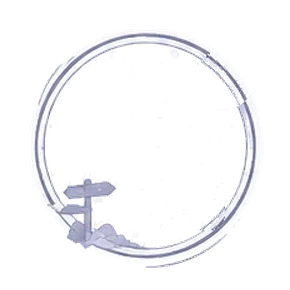
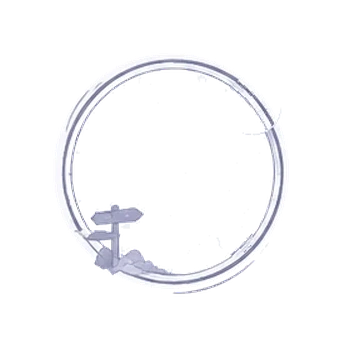
EPIC / LEGENDARY / MYTHIC / EXALTED をイラスト素材で追加(各18種、合計126種)
- Epic(紫)・Legendary(金)・Mythic(深紅と紫)・Exalted(白と紫と金): リング・背景カード・名札 各6種
- 大きな飾りのあるリングが切れないよう、リング画像の余白を広げた(表示の大きさを170%に)。COMMON〜RAREのリングも作り直し
- 素材の追加で、ガチャの対象が7段階になった(確率は、元の表に比例して自動で調整)

Claude-Session: https://claude.ai/code/session_01FXrqvWfRt7Cfui1Bab3KtG

Changed region(s): [[0.0931, 0.0931, 0.9, 0.931]]

diff --git a/gacha-items.js b/gacha-items.js
@@ -9,10 +9,10 @@ export const RATES_PCT = {
 };
 export const RARITY_LABEL = Object.fromEntries(RARITIES.map(r => [r, r.toUpperCase()]));
 // 表示用の色(CSS の --rc にも同じ色)
-export const RARITY_COLOR = { common: '#cfd3e8', uncommon: '#6ee7a0', rare: '#6aa8ff', epic: '#b794ff', legendary: '#ff9a5c', mythic: '#ff5c6c', exalted: '#ff7ab8', divine: '#ffe27a', celestial: '#7defff', transcendent: '#5cf0c6', eternal: '#8a8cff', singularity: '#e55cff', primordial: '#ffffff' };
+export const RARITY_COLOR = { common: '#cfd3e8', uncommon: '#6ee7a0', rare: '#6aa8ff', epic: '#b794ff', legendary: '#f5c24c', mythic: '#ff5c8a', exalted: '#d9ccff', divine: '#ffe27a', celestial: '#7defff', transcendent: '#5cf0c6', eternal: '#8a8cff', singularity: '#e55cff', primordial: '#ffffff' };
 export const ID_PATTERN = /^[a-z0-9-]{1,32}$/;
 
-// イラスト素材(img/gacha/)。題材ごとに、リング・背景カード・名札の3つ(COMMON / UNCOMMON / RARE)
+// イラスト素材(img/gacha/)。題材ごとに、リング・背景カード・名札の3つ(COMMON 〜 EXALTED)
 const TITLES_COMMON = [
   ['newcomer', ['Newcomer', 'ニューカマー', '新人']],
   ['wanderer', ['Wanderer', 'ワンダラー', '流浪者']],
@@ -29,6 +29,38 @@ const TITLES_UNCOMMON = [
   ['rising-star', ['Rising Star', 'ライジングスター', '新星']],
   ['fortune-seeker', ['Fortune Seeker', 'フォーチュンシーカー', '寻运者']],
 ];
+const TITLES_EPIC = [
+  ['master-of-illusions', ['Master of Illusions', 'マスター・オブ・イリュージョン', '幻象大师']],
+  ['the-fallen-knight', ['The Fallen Knight', 'ザ・フォールン・ナイト', '堕落骑士']],
+  ['lord-of-shadows', ['Lord of Shadows', 'ロード・オブ・シャドウズ', '暗影之主']],
+  ['keeper-of-secrets', ['Keeper of Secrets', 'キーパー・オブ・シークレッツ', '秘密守护者']],
+  ['the-unbroken', ['The Unbroken', 'ジ・アンブロークン', '不屈者']],
+  ['harbinger-of-dawn', ['Harbinger of Dawn', 'ハービンジャー・オブ・ドーン', '黎明先驱']],
+];
+const TITLES_LEGENDARY = [
+  ['the-uncrowned-king', ['The Uncrowned King', '戴冠なき王', '无冕之王']],
+  ['dragon-sovereign', ['Dragon Sovereign', 'ドラゴン・ソブリン', '龙之君主']],
+  ['the-conqueror', ['The Conqueror', 'ザ・コンカラー', '征服者']],
+  ['the-chosen-one', ['The Chosen One', '選ばれし者', '天选之人']],
+  ['emperor-of-ashes', ['Emperor of Ashes', '灰の皇帝', '灰烬皇帝']],
+  ['the-last-guardian', ['The Last Guardian', '最後の守護者', '最后的守护者']],
+];
+const TITLES_MYTHIC = [
+  ['the-immortal', ['The Immortal', '不死なる者', '不朽者']],
+  ['the-godslayer', ['The Godslayer', '神殺し', '弑神者']],
+  ['herald-of-chaos', ['Herald of Chaos', 'ヘラルド・オブ・カオス', '混沌使者']],
+  ['heir-of-the-titans', ['Heir of the Titans', '巨人の継承者', '泰坦后裔']],
+  ['the-abyssal-monarch', ['The Abyssal Monarch', '深淵の君主', '深渊君主']],
+  ['oracle-of-destiny', ['Oracle of Destiny', '運命の神託', '命运神谕']],
+];
+const TITLES_EXALTED = [
+  ['the-ascended', ['The Ascended', '昇天者', '飞升者']],
+  ['the-enlightened', ['The Enlightened', '悟りを得た者', '觉悟者']],
+  ['the-supreme-one', ['The Supreme One', '至高の存在', '至高者']],
+  ['the-unrivaled', ['The Unrivaled', '並ぶ者なき者', '无双者']],
+  ['sovereign-of-order', ['Sovereign of Order', '秩序の君主', '秩序之主']],
+  ['the-perfect-being', ['The Perfect Being', '完全なる存在', '完美存在']],
+];
 const TITLES = [
   ['shadow-walker', ['Shadow Walker', 'シャドウウォーカー', '暗影行者']],
   ['flame-keeper', ['Flame Keeper', 'フレイムキーパー', '炎之守护者']],
@@ -44,6 +76,7 @@ const setOf = (rarity, titles) => titles.flatMap(([slug, names]) => [
   { id: `p-${slug}`, type: 'plate', rarity, img: `${IMG}plate-${slug}.webp`, names },
 ]);
 const COMMON_SET = setOf('common', TITLES_COMMON), UNCOMMON_SET = setOf('uncommon', TITLES_UNCOMMON), RARE_SET = setOf('rare', TITLES);
+const EPIC_SET = setOf('epic', TITLES_EPIC), LEGENDARY_SET = setOf('legendary', TITLES_LEGENDARY), MYTHIC_SET = setOf('mythic', TITLES_MYTHIC), EXALTED_SET = setOf('exalted', TITLES_EXALTED);
 export const ITEMS = [
   // ---- COMMON(イラスト・淡い色): リング・背景カード・名札 ----
   ...COMMON_SET,
@@ -51,6 +84,8 @@ export const ITEMS = [
   ...UNCOMMON_SET,
   // ---- RARE(イラスト): アイコンのリング / 背景カード / 名札(名前の横)。同じ6つの題材で、セットになっている ----
   ...RARE_SET,
+  // ---- EPIC(紫) / LEGENDARY(金) / MYTHIC(深紅と紫) / EXALTED(白と紫と金) ----
+  ...EPIC_SET, ...LEGENDARY_SET, ...MYTHIC_SET, ...EXALTED_SET,
 ];
 export const BY_ID = Object.fromEntries(ITEMS.map(i => [i.id, i]));
 export const itemName = (item, lang) => item.names[{ en: 0, ja: 1, zh: 2 }[lang] ?? 0];

diff --git a/theme.js b/theme.js
@@ -1,5 +1,5 @@
 // 表示スタイル(標準 / ネオン)の切り替え。ネオンはWebGPUの3D背景(非対応のブラウザでは、CSSの簡易ネオン)。
-import './cs-progress.js?v=109';
+import './cs-progress.js?v=111';
 const KEY = 'theme';
 const root = document.documentElement;
 const buttons = [...document.querySelectorAll('.st-theme')];
@@ -12,7 +12,7 @@ async function apply() {
   buttons.forEach(b => { const on = b.dataset.theme === getTheme(); b.classList.toggle('is-on', on); b.setAttribute('aria-pressed', String(on)); });
   if (!neon && /^(cs|physics|eio|mock|afk)$/.test(document.body.dataset.view)) window.appSetView('home');
   if (neon && document.body.dataset.view === 'notes') window.appSetView('home');
-  const gpu = await import('./neon-bg.js?v=109');
+  const gpu = await import('./neon-bg.js?v=111');
   if (!neon) { gpu.stopNeon(); root.classList.remove('neon-gpu'); if (note) note.hidden = true; return; }
   const ok = await gpu.startNeon(document.querySelector('.bg'));
   root.classList.toggle('neon-gpu', ok);
@@ -31,7 +31,7 @@ if (getTheme() === 'neon') apply(); else buttons.forEach(b => { const on = b.dat
 // CS / Physics 画面(ネオンのときだけ): 開いている間だけ、WebGPUの背景を動かす
 async function syncGpuViews(view) {
   if (getTheme() !== 'neon') return;
-  const [cs, ph, io, mk, ak] = await Promise.all([import('./cs.js?v=109'), import('./physics.js?v=109'), import('./eio.js?v=109'), import('./mock.js?v=109'), import('./afk.js?v=109')]);
+  const [cs, ph, io, mk, ak] = await Promise.all([import('./cs.js?v=111'), import('./physics.js?v=111'), import('./eio.js?v=111'), import('./mock.js?v=111'), import('./afk.js?v=111')]);
   if (view === 'cs') cs.cs.start(); else cs.cs.stop();
   if (view === 'physics') ph.physics.start(); else ph.physics.stop();
   if (view === 'eio') io.eio.start(); else io.eio.stop();

diff --git a/home-auth.js b/home-auth.js
@@ -1,21 +1,21 @@
 // ホーム画面はログイン済みのユーザーだけが見られる。未ログインならログイン画面へ戻す。
-import { onUser, logOut } from './auth.js?v=109';
-import { t, getLang, setLang } from './i18n.js?v=109';
-import { mountFriends } from './friends-ui.js?v=109';
-import { mountProfile } from './profile.js?v=109';
-import { mountTimer } from './timer.js?v=109';
-import { mountPomodoro } from './pomodoro.js?v=109';
-import { startLogs } from './logs-store.js?v=109';
-import { mountRecent } from './recent.js?v=109';
-import { mountManual } from './manual.js?v=109';
-import { mountNotices } from './notices.js?v=109';
-import { mountCompare } from './compare.js?v=109';
-import './theme.js?v=109';
-import { mountAfk } from './afk.js?v=109';
-import { mountMock } from './mock.js?v=109';
-import { mountEio } from './eio.js?v=109';
-import { mountNotes } from './notes.js?v=109';
-import { mountBgVideo } from './bgvideo.js?v=109';
+import { onUser, logOut } from './auth.js?v=111';
+import { t, getLang, setLang } from './i18n.js?v=111';
+import { mountFriends } from './friends-ui.js?v=111';
+import { mountProfile } from './profile.js?v=111';
+import { mountTimer } from './timer.js?v=111';
+import { mountPomodoro } from './pomodoro.js?v=111';
+import { startLogs } from './logs-store.js?v=111';
+import { mountRecent } from './recent.js?v=111';
+import { mountManual } from './manual.js?v=111';
+import { mountNotices } from './notices.js?v=111';
+import { mountCompare } from './compare.js?v=111';
+import './theme.js?v=111';
+import { mountAfk } from './afk.js?v=111';
+import { mountMock } from './mock.js?v=111';
+import { mountEio } from './eio.js?v=111';
+import { mountNotes } from './notes.js?v=111';
+import { mountBgVideo } from './bgvideo.js?v=111';
 
 let social;
 onUser(async user => {

diff --git a/afk.css b/afk.css
@@ -109,7 +109,7 @@ body[data-view="afk"] #afk-view { display: block; animation: page-in .5s ease bo
 
 /* ---------- イラスト素材(RARE): リング・背景カード・名札 ---------- */
 .gx-ringimg::before { display: none; }
-.gx-ring { position: absolute; width: 145%; height: 145%; left: -22.5%; top: -22.5%; max-width: none; z-index: 3; pointer-events: none; user-select: none; filter: drop-shadow(0 0 4px rgba(120, 140, 255, .55)); animation: gx-ringglow 3.4s ease-in-out infinite; }
+.gx-ring { position: absolute; width: 170%; height: 170%; left: -35%; top: -35%; max-width: none; z-index: 3; pointer-events: none; user-select: none; filter: drop-shadow(0 0 4px rgba(120, 140, 255, .55)); animation: gx-ringglow 3.4s ease-in-out infinite; }
 @keyframes gx-ringglow { 50% { filter: drop-shadow(0 0 9px rgba(150, 170, 255, .95)); } }
 .gx-sample .gx-ring { z-index: 1; }
 html .gx-deco.gx-img { --ovg: linear-gradient(90deg, rgba(255, 255, 255, .66), rgba(255, 255, 255, .4) 42%, rgba(255, 255, 255, .55)); background: var(--ovg), var(--g); }
@@ -132,9 +132,9 @@ html[data-theme="neon"] .gx-deco.gx-img .fo-desc, html[data-theme="neon"] .gx-de
 [data-r="uncommon"] { --rc: #6ee7a0; }
 [data-r="rare"] { --rc: #6aa8ff; }
 [data-r="epic"] { --rc: #b794ff; }
-[data-r="legendary"] { --rc: #ff9a5c; }
-[data-r="mythic"] { --rc: #ff5c6c; }
-[data-r="exalted"] { --rc: #ff7ab8; }
+[data-r="legendary"] { --rc: #f5c24c; }
+[data-r="mythic"] { --rc: #ff5c8a; }
+[data-r="exalted"] { --rc: #d9ccff; }
 [data-r="divine"] { --rc: #ffe27a; }
 [data-r="celestial"] { --rc: #7defff; }
 [data-r="transcendent"] { --rc: #5cf0c6; }

diff --git a/afk.js b/afk.js
@@ -1,13 +1,13 @@
 // AFK(ネオンのときだけ): タイマーを動かしている間、一定の間隔(初期設定10秒)で、自動でガチャを引く。
 // 景品は、プロフィールで使えるアイコンと、プロフィールの背景の飾り。図鑑で、どれを何個持っているか見られて、そこから使うものを選べる。
 // 回数や持ち物は、このブラウザに、アカウントごとに保存する。使うものに選んだ景品は、Firestore(プロフィール)に入るので、他の人にも見える。
-import { createGpuView } from './gpu-view.js?v=109';
-import { WGSL } from './physics-bg.js?v=109';
-import { firestore } from './auth.js?v=109';
-import { onState } from './friends-ui.js?v=109';
-import { unlockAudio, beep } from './sound.js?v=109';
-import { t, getLang } from './i18n.js?v=109';
-import { ITEMS, BY_ID, RATES_PCT, RARITIES, RARITY_LABEL, RARITY_COLOR, availableRarities, itemName, pull, frameSample, applyDeco, plateImg } from './gacha-items.js?v=109';
+import { createGpuView } from './gpu-view.js?v=111';
+import { WGSL } from './physics-bg.js?v=111';
+import { firestore } from './auth.js?v=111';
+import { onState } from './friends-ui.js?v=111';
+import { unlockAudio, beep } from './sound.js?v=111';
+import { t, getLang } from './i18n.js?v=111';
+import { ITEMS, BY_ID, RATES_PCT, RARITIES, RARITY_LABEL, RARITY_COLOR, availableRarities, itemName, pull, frameSample, applyDeco, plateImg } from './gacha-items.js?v=111';
 
 const host = document.getElementById('afk-view');
 const stage = document.getElementById('afk-stage');

diff --git a/home.html b/home.html
@@ -7,13 +7,13 @@
 <script>try{if(localStorage.theme==="neon")document.documentElement.dataset.theme="neon"}catch(e){}document.documentElement.classList.add("auth-pending", "i18n-pending"); setTimeout(function () { document.documentElement.classList.remove("i18n-pending"); }, 3000);</script>
 <link rel="preconnect" href="https://fonts.googleapis.com"><link rel="preconnect" href="https://fonts.gstatic.com" crossorigin>
 <link rel="stylesheet" href="https://fonts.googleapis.com/css2?family=Cormorant+Garamond:ital,wght@0,400;0,500;0,600;1,400;1,500;1,600&display=swap">
-<link rel="stylesheet" href="style.css?v=109">
-<link rel="stylesheet" href="cs.css?v=109">
-<link rel="stylesheet" href="ph.css?v=109">
-<link rel="stylesheet" href="eio.css?v=109">
-<link rel="stylesheet" href="mock.css?v=109">
-<link rel="stylesheet" href="afk.css?v=109">
-<link rel="stylesheet" href="notes.css?v=109">
+<link rel="stylesheet" href="style.css?v=111">
+<link rel="stylesheet" href="cs.css?v=111">
+<link rel="stylesheet" href="ph.css?v=111">
+<link rel="stylesheet" href="eio.css?v=111">
+<link rel="stylesheet" href="mock.css?v=111">
+<link rel="stylesheet" href="afk.css?v=111">
+<link rel="stylesheet" href="notes.css?v=111">
 </head>
 <body data-view="home">
 
@@ -461,8 +461,8 @@
   </form>
 </div>
 
-<script src="script.js?v=109"></script>
-<script src="logpage.js?v=109"></script>
-<script type="module" src="home-auth.js?v=109"></script>
+<script src="script.js?v=111"></script>
+<script src="logpage.js?v=111"></script>
+<script type="module" src="home-auth.js?v=111"></script>
 </body>
 </html>

diff --git a/profile.js b/profile.js
@@ -1,13 +1,13 @@
 // プロフィール画面: 自分の情報、学習の集計、日ごとの学習時間のグラフ、Log history
-import { firestore } from './auth.js?v=109';
-import { formatCode, socialMessage } from './social.js?v=109';
-import { t, logMeta } from './i18n.js?v=109';
-import { errorMessage } from './auth.js?v=109';
-import { loadImage } from './avatar-image.js?v=109';
-import { openCropper } from './crop.js?v=109';
-import { onState, editMyProfile, makeAvatar } from './friends-ui.js?v=109';
-import { BY_ID, applyDeco, applyPlate } from './gacha-items.js?v=109';
-import { computeStats, dailySeries, niceScale, relativeTime, sampleLogs } from './stats.js?v=109';
+import { firestore } from './auth.js?v=111';
+import { formatCode, socialMessage } from './social.js?v=111';
+import { t, logMeta } from './i18n.js?v=111';
+import { errorMessage } from './auth.js?v=111';
+import { loadImage } from './avatar-image.js?v=111';
+import { openCropper } from './crop.js?v=111';
+import { onState, editMyProfile, makeAvatar } from './friends-ui.js?v=111';
+import { BY_ID, applyDeco, applyPlate } from './gacha-items.js?v=111';
+import { computeStats, dailySeries, niceScale, relativeTime, sampleLogs } from './stats.js?v=111';
 
 const $ = id => document.getElementById(id);
 const el = (tag, className, text) => {

diff --git a/friends-ui.js b/friends-ui.js
@@ -1,8 +1,8 @@
 // フレンド機能の画面: 右サイドバーの一覧と、ページの上に重ねて表示するフレンドUI
 //   左のレール: 人のマーク = フレンド一覧 / 人+のマーク = フレンド申請
-import { startSocial, formatCode, socialMessage, LIMITS } from './social.js?v=109';
-import { t } from './i18n.js?v=109';
-import { errorMessage } from './auth.js?v=109';
+import { startSocial, formatCode, socialMessage, LIMITS } from './social.js?v=111';
+import { t } from './i18n.js?v=111';
+import { errorMessage } from './auth.js?v=111';
 
 const $ = id => document.getElementById(id);
 const LABELS = { online: 'Online', busy: 'Busy', offline: 'Offline' };
@@ -47,8 +47,8 @@ function textButton(label, className, onClick) {
   b.addEventListener('click', onClick);
   return b;
 }
-import { PHOTO_PATTERN } from './avatar-image.js?v=109';
-import { BY_ID, applyFrame, applyDeco, applyPlate } from './gacha-items.js?v=109';
+import { PHOTO_PATTERN } from './avatar-image.js?v=111';
+import { BY_ID, applyFrame, applyDeco, applyPlate } from './gacha-items.js?v=111';
 function avatar(id, name, status, photo, icon) {
   let h = 0;
   for (const ch of id) h = (h * 31 + ch.charCodeAt(0)) % 360;

diff --git a/cs.js b/cs.js
@@ -1,10 +1,10 @@
 // CS(ネオンのときだけ): 「IBDP Computer Science HL」の学習サイトの画面一式。背景はWebGPU(白黒のゴシックの大聖堂)で、ずっと動いている。
 // 画面: home / topics / practice / pa(Practice の一覧。A1〜A4) / lesson(A1〜A4 の学習ページ) / case(Case Study)
-import { createGpuView } from './gpu-view.js?v=109';
-import { WGSL } from './cs-bg.js?v=109';
-import { GROUPS, TERMS, FIGS } from './casestudy.js?v=109';
-import { isDone, toggleDone, countDone } from './cs-progress.js?v=109';
-import { mountQuiz, quizScore, quizTotal, QUIZ_CODES } from './quiz.js?v=109';
+import { createGpuView } from './gpu-view.js?v=111';
+import { WGSL } from './cs-bg.js?v=111';
+import { GROUPS, TERMS, FIGS } from './casestudy.js?v=111';
+import { isDone, toggleDone, countDone } from './cs-progress.js?v=111';
+import { mountQuiz, quizScore, quizTotal, QUIZ_CODES } from './quiz.js?v=111';
 
 const host = document.getElementById('cs-view');
 const stage = document.getElementById('cs-stage');

diff --git a/physics.js b/physics.js
@@ -1,10 +1,10 @@
 // Physics(ネオンのときだけ): IBDP Physics HL の最初のページ。背景はWebGPU(白黒のゴシックの大聖堂+浮かぶ惑星)で、ずっと動いている。
-import { createGpuView } from './gpu-view.js?v=109';
-import { WGSL } from './physics-bg.js?v=109';
-import { TOPICS as TOPICS5, FIGS as FIGS5 } from './physics-a5.js?v=109';
-import { TOPICS1, FIGS1 } from './physics-a1.js?v=109';
-import { TOPICS2, FIGS2 } from './physics-a2.js?v=109';
-import { TOPICS3, FIGS3 } from './physics-a3.js?v=109';
+import { createGpuView } from './gpu-view.js?v=111';
+import { WGSL } from './physics-bg.js?v=111';
+import { TOPICS as TOPICS5, FIGS as FIGS5 } from './physics-a5.js?v=111';
+import { TOPICS1, FIGS1 } from './physics-a1.js?v=111';
+import { TOPICS2, FIGS2 } from './physics-a2.js?v=111';
+import { TOPICS3, FIGS3 } from './physics-a3.js?v=111';
 const TOPICS = { ...TOPICS1, ...TOPICS2, ...TOPICS3, ...TOPICS5 };
 const FIGS = { ...FIGS5, ...FIGS1, ...FIGS2, ...FIGS3 };
 

diff --git a/style.css b/style.css
@@ -808,7 +808,7 @@ html[data-theme="neon"] .lib-bg {
   display: block; position: absolute; inset: 0;
   background:
     radial-gradient(60% 50% at 50% 0%, rgba(255, 40, 180, .18), transparent 70%),
-    url("library-far.svg?v=109") calc(var(--sx, 0px) * -.3) 0 / auto 25vh repeat,
+    url("library-far.svg?v=111") calc(var(--sx, 0px) * -.3) 0 / auto 25vh repeat,
     #07021a;
   transition: opacity .45s ease-in, transform .5s cubic-bezier(.6, 0, 1, .6), filter .45s ease-in;
 }
@@ -821,7 +821,7 @@ html[data-theme="neon"] .lg-world::before {
   content: ""; position: absolute; inset: 0; pointer-events: none;
   background:
     linear-gradient(180deg, rgba(7, 2, 26, .55), transparent 30%, transparent 70%, rgba(7, 2, 26, .7)),
-    url("library-near.svg?v=109") 0 0 / auto 25vh repeat;
+    url("library-near.svg?v=111") 0 0 / auto 25vh repeat;
   transition: opacity .45s ease-in, transform .5s cubic-bezier(.6, 0, 1, .6), filter .45s ease-in;
 }
 html[data-theme="neon"] .lib-hint {

diff --git a/notices.js b/notices.js
@@ -1,9 +1,9 @@
 // お知らせ: オーナーのアカウントが出したお知らせを、全アカウントが受け取る。
 // ヘッダーの Notice を押すと、フレンドと同じように、ページの上に画面が重なって出る(ページは変わらない)。
 // オーナーのアカウントには、お知らせを「出す」タブ(タイトルと内容を入力)も出る。
-import { firestore } from './auth.js?v=109';
-import { t, getLang } from './i18n.js?v=109';
-import { makeAvatar } from './friends-ui.js?v=109';
+import { firestore } from './auth.js?v=111';
+import { t, getLang } from './i18n.js?v=111';
+import { makeAvatar } from './friends-ui.js?v=111';
 
 const OWNER = 'hireo559@gmail.com';   // firestore.rules の isOwner() と同じメールアドレス
 const $ = id => document.getElementById(id);
